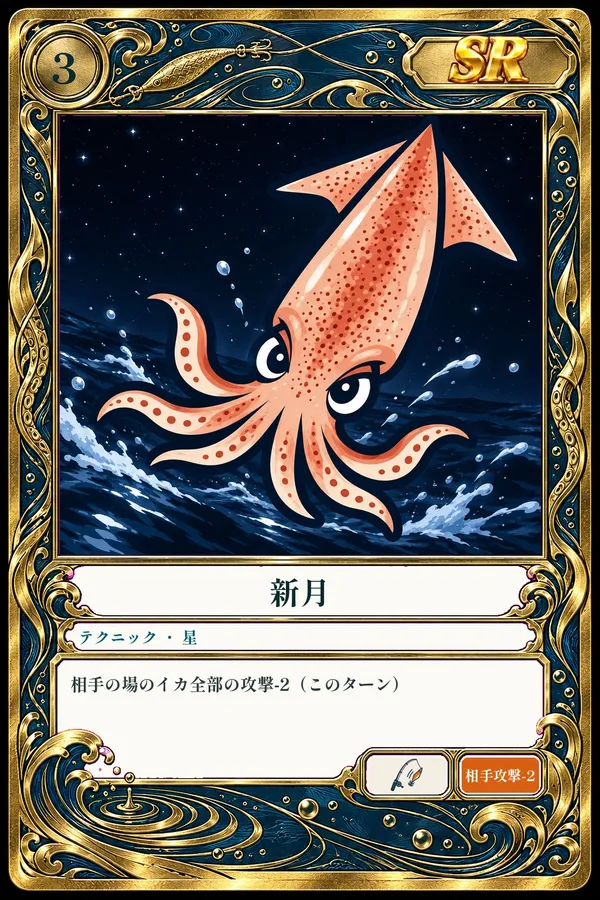
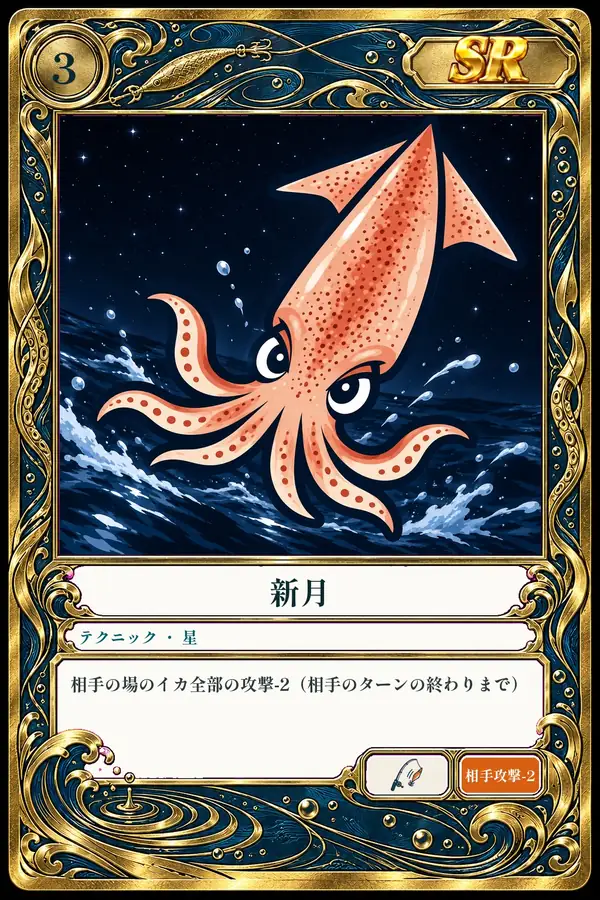
カードバトル：空振りしていた守り・お邪魔の5枚（ダート・ドリフト・ドラグ調整・小潮・新月）を相手のターンの終わりまで効くように。風裏を探すを「相手の場のイカ1体を手札に戻す（潮3）」に作り替え。CPUが次の番に釣られそうなイカを守りのテクニックで守る。6枚のカードの説明文を作り直し（ぱっぱ：一度攻め切られると歯が立たない）

Changed region(s): [[0.51, 0.7467, 0.87, 0.7778], [0.9, 0.6222, 0.93, 0.6533]]

diff --git a/src/js/ikabu/games/battle.js b/src/js/ikabu/games/battle.js
@@ -146,7 +146,7 @@ export function startTurn(st) {
   if (p.tailwind) p.tide = Math.min(TIDE_MAX, p.tide + TAILWIND_TIDE);
   p.summoned = false; p.techUsed = 0; p.techLimit = null; p.noAttack = st.turn === 1;   // 先攻の最初のターンは攻撃できない
   for (const x of p.front) if (x) { x.sick = false; x.attacked = false; x.shield = false; x.shakuri = false; x.skipThis = x.skipNext; x.skipNext = false; if (x.resting) { x.resting = false; } }
-  for (const x of P(st, other(side)).front) if (x) x.shield = false;
+  // 「攻撃されない」（ダート・ドリフト）は相手の番の終わりまで残す。前は相手の番の始めに外していて、自分の番にしか効かない空振りだった（2026-10-04 ぱっぱ）
   if (!draw(st, side)) { finish(st, other(side)); return st; }
   fireTraps(st, other(side), 'enemyTurnStart', {});
   return st;
@@ -400,6 +400,38 @@ function check(st) {
 }
 
 /* ---------- CPU の手（読みやすい型） ---------- */
+// 次の相手の番に、相手の前列のイカで釣られてしまう自分のイカの数（攻撃>防御）
+function exposedCount(st, side, { atkDelta = new Map(), defDelta = new Map(), gone = null, safe = null } = {}) {
+  const atks = P(st, other(side)).front.filter((e) => e && e !== gone).map((e) => statOf(st, e, 'atk') + (atkDelta.get(e) ?? 0));
+  return P(st, side).front.filter((x) => x && x !== safe && !x.shield).filter((x) => atks.some((a) => a > statOf(st, x, 'def') + (defDelta.get(x) ?? 0))).length;
+}
+// 守りのテクニックのうち、釣られるイカをいちばん減らす1手。減らないなら null
+function guardMove(st, side, techs) {
+  const own = P(st, side).front.filter(Boolean), en = P(st, other(side)).front.filter(Boolean);
+  if (!own.length || !en.length) return null;
+  const base = exposedCount(st, side);
+  if (!base) return null;
+  const lasting = (u) => u === 'oppTurnEnd' || u === 'nextTurn' || u === 'forever';
+  let best = null;
+  const consider = (x, target, after) => { if (after < base && (!best || after < best.after)) best = { type: 'play', x, target, after }; };
+  for (const x of techs) {
+    for (const e of effectsOf(st, x.no)) {
+      if (e.when !== 'play') continue;
+      if (e.do === 'buff' && e.stat === 'def' && e.n > 0 && lasting(e.until) && ['ownOne', 'ownAll', 'ownNightOne', 'ownNight'].includes(e.who)) {
+        const pool = e.who.startsWith('ownNight') ? own.filter((o) => isNight(o.card)) : own;
+        if (e.who === 'ownOne' || e.who === 'ownNightOne') for (const t of pool) consider(x, t, exposedCount(st, side, { defDelta: new Map([[t, e.n]]) }));
+        else consider(x, null, exposedCount(st, side, { defDelta: new Map(pool.map((o) => [o, e.n])) }));
+      }
+      if (e.do === 'buff' && e.stat === 'atk' && e.n < 0 && lasting(e.until) && (e.who === 'enemyOne' || e.who === 'enemyAll')) {
+        if (e.who === 'enemyOne') for (const t of en) consider(x, t, exposedCount(st, side, { atkDelta: new Map([[t, e.n]]) }));
+        else consider(x, null, exposedCount(st, side, { atkDelta: new Map(en.map((o) => [o, e.n])) }));
+      }
+      if (e.do === 'shield' && e.who === 'ownOne') for (const t of own) consider(x, t, exposedCount(st, side, { safe: t }));
+      if (e.do === 'bounce' && e.who === 'enemyOne') for (const t of en) consider(x, t, exposedCount(st, side, { gone: t }));
+    }
+  }
+  return best && { type: best.type, x: best.x, target: best.target };
+}
 // 次の1手を返す：{ type:'play', x, target } | { type:'attack', x, target } | { type:'end' }
 export function cpuNext(st, side = 'cpu') {
   if (st.active !== side || st.winner) return { type: 'end' };
@@ -454,6 +486,9 @@ export function cpuNext(st, side = 'cpu') {
     if (allBuff && gain(allBuff.n, 0) > 0) return { type: 'play', x, target: null };
     if (allDebuff && gain(0, allDebuff.n) > 0) return { type: 'play', x, target: null };
   }
+  // 3c. 守り：次の相手の番で釣られそうな自分のイカがいれば、守りのテクニックで減らす（2026-10-04 前は守りを一度も使わなかった）
+  const g = guardMove(st, side, techs);
+  if (g) return g;
   // 4. トラップを伏せる
   const trap = p.hand.find((x) => x.card.kind === 'trap' && canPlay(st, side, x).ok);
   if (trap) return { type: 'play', x: trap, target: null };
